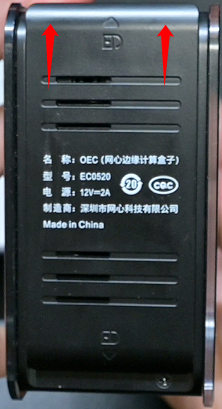
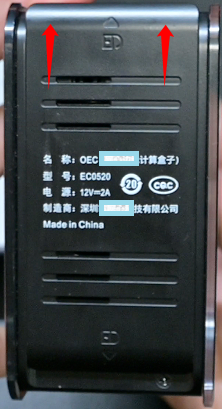
update

Changed region(s): [[0.4324, 0.3521, 0.6486, 0.4108], [0.4324, 0.4694, 0.6216, 0.5281]]

diff --git a/docs/tutorial-basics/rk3566.md b/docs/tutorial-basics/rk3566.md
@@ -5,7 +5,7 @@ sidebar_position: 8
 
 # 瑞芯微(rk3566-OEC/-T)刷机
 
-OEC/OEC-Turbo盒子，网心云型号ec0520，采用的rk3566芯片，  
+OEC/OEC-Turbo盒子，型号ec0520，采用的rk3566芯片，  
 CPU Rockchip RK3566 
 内存 4G   
 闪存 8G  
